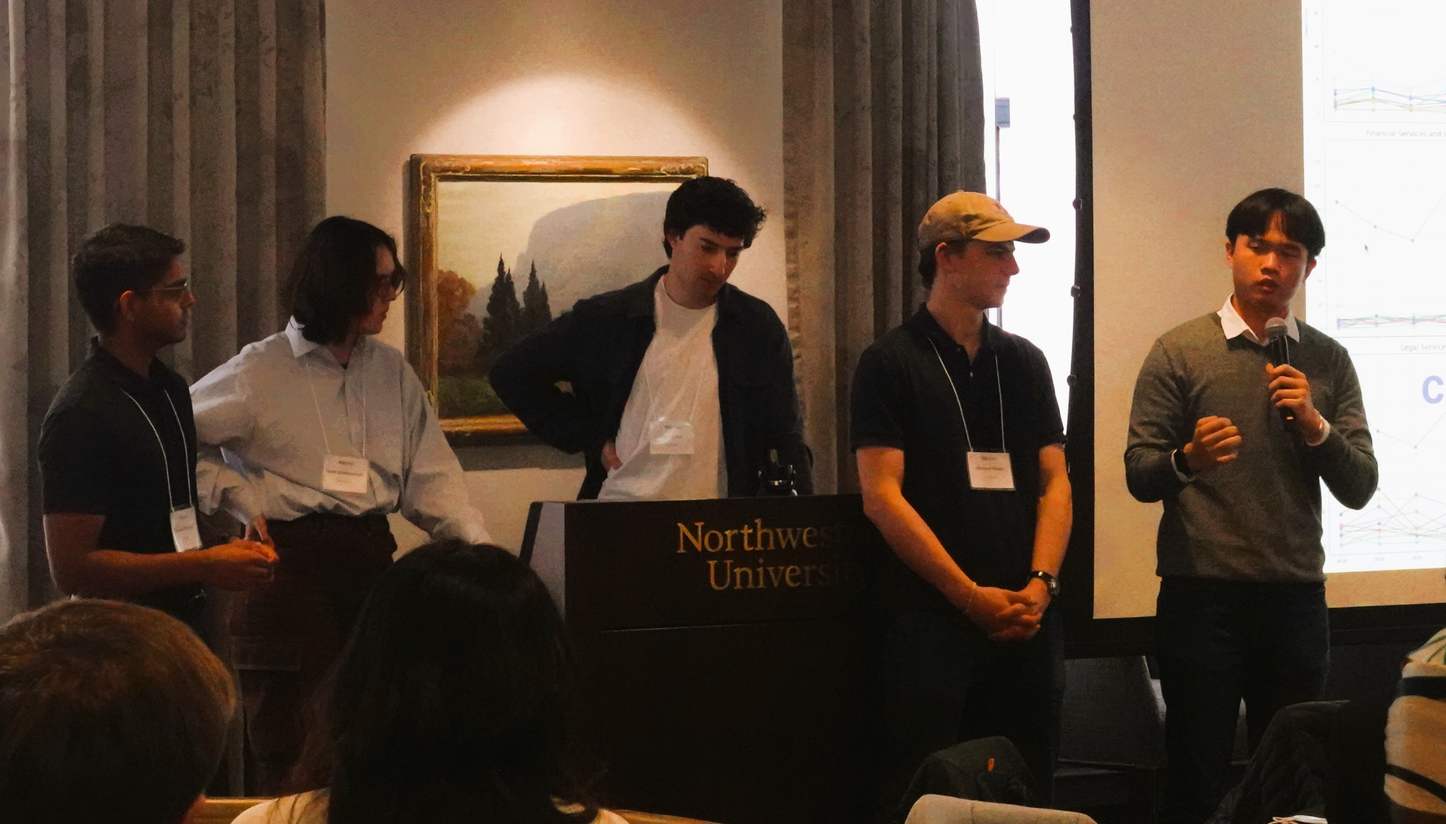
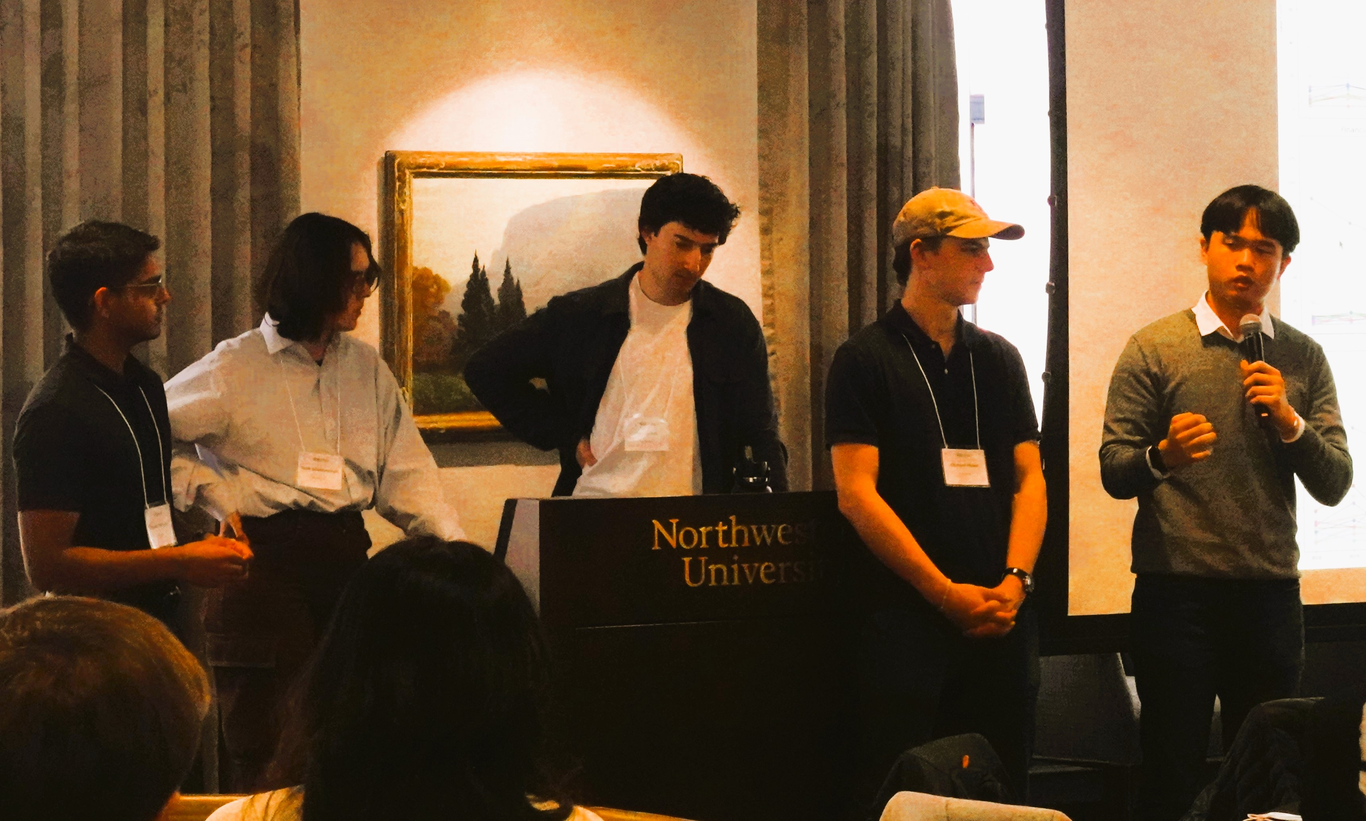
na

diff --git a/_site/participants.html b/_site/participants.html
@@ -230,7 +230,7 @@ ul.task-list li input[type="checkbox"] {
 <p><em>(Corbin, Spencer, Benjamin, and Ferdy)</em></p>
 <p><em>The work is mysterious and important</em></p>
 <p><strong>Mentor:</strong> Akash Rathi</p>
-<p><img src="images/mdr_group_photo.png" class="img-fluid" style="width:80.0%"></p>
+<p><img src="images/macro.JPG" class="img-fluid" style="width:80.0%"></p>
 </section>
 <section id="the-unicorns" class="level2" style="color:#4E2A84;">
 <h2 style="color:#4E2A84;" class="anchored" data-anchor-id="the-unicorns">5. The Unicorns</h2>
@@ -244,6 +244,7 @@ ul.task-list li input[type="checkbox"] {
 <p><em>(Shriya, Glenna, Sarah, and Tosin)</em></p>
 <p><em>We all met during the DS sequence and have been stuck together since! Excited to participate and put our relationship to the test (hopefully only the T-test)!</em></p>
 <p><strong>Mentor:</strong> Xinhui Qian</p>
+<p><img src="images/stat.JPG" class="img-fluid" style="width:80.0%"></p>
 </section>
 <section id="hot-tea" class="level2" style="color:#4E2A84;">
 <h2 style="color:#4E2A84;" class="anchored" data-anchor-id="hot-tea">7. Hot Tea</h2>
@@ -271,6 +272,7 @@ ul.task-list li input[type="checkbox"] {
 <p><em>(Izzy, Yana, Kushal, Abe, and Michael)</em></p>
 <p><em>Wielding innovation like chopsticks — graceful, deliberate, and fueled by interdisciplinary collaboration</em></p>
 <p><strong>Mentor:</strong> Adamya Prakash Srivastava</p>
+<p><img src="images/chop.JPG" class="img-fluid" style="width:80.0%"></p>
 </section>
 <section id="the-prompt-engineers" class="level2" style="color:#4E2A84;">
 <h2 style="color:#4E2A84;" class="anchored" data-anchor-id="the-prompt-engineers">11. The Prompt Engineers</h2>
@@ -284,6 +286,7 @@ ul.task-list li input[type="checkbox"] {
 <p><em>(Matthew, Adrien, Irene, and Shriyans)</em></p>
 <p><em>Give me data or give me death!</em></p>
 <p><strong>Mentor:</strong> David Frost</p>
+<p><img src="images/idwt.JPG" class="img-fluid" style="width:80.0%"></p>
 </section>
 <section id="data-jays" class="level2" style="color:#4E2A84;">
 <h2 style="color:#4E2A84;" class="anchored" data-anchor-id="data-jays">13. Data Jays</h2>
